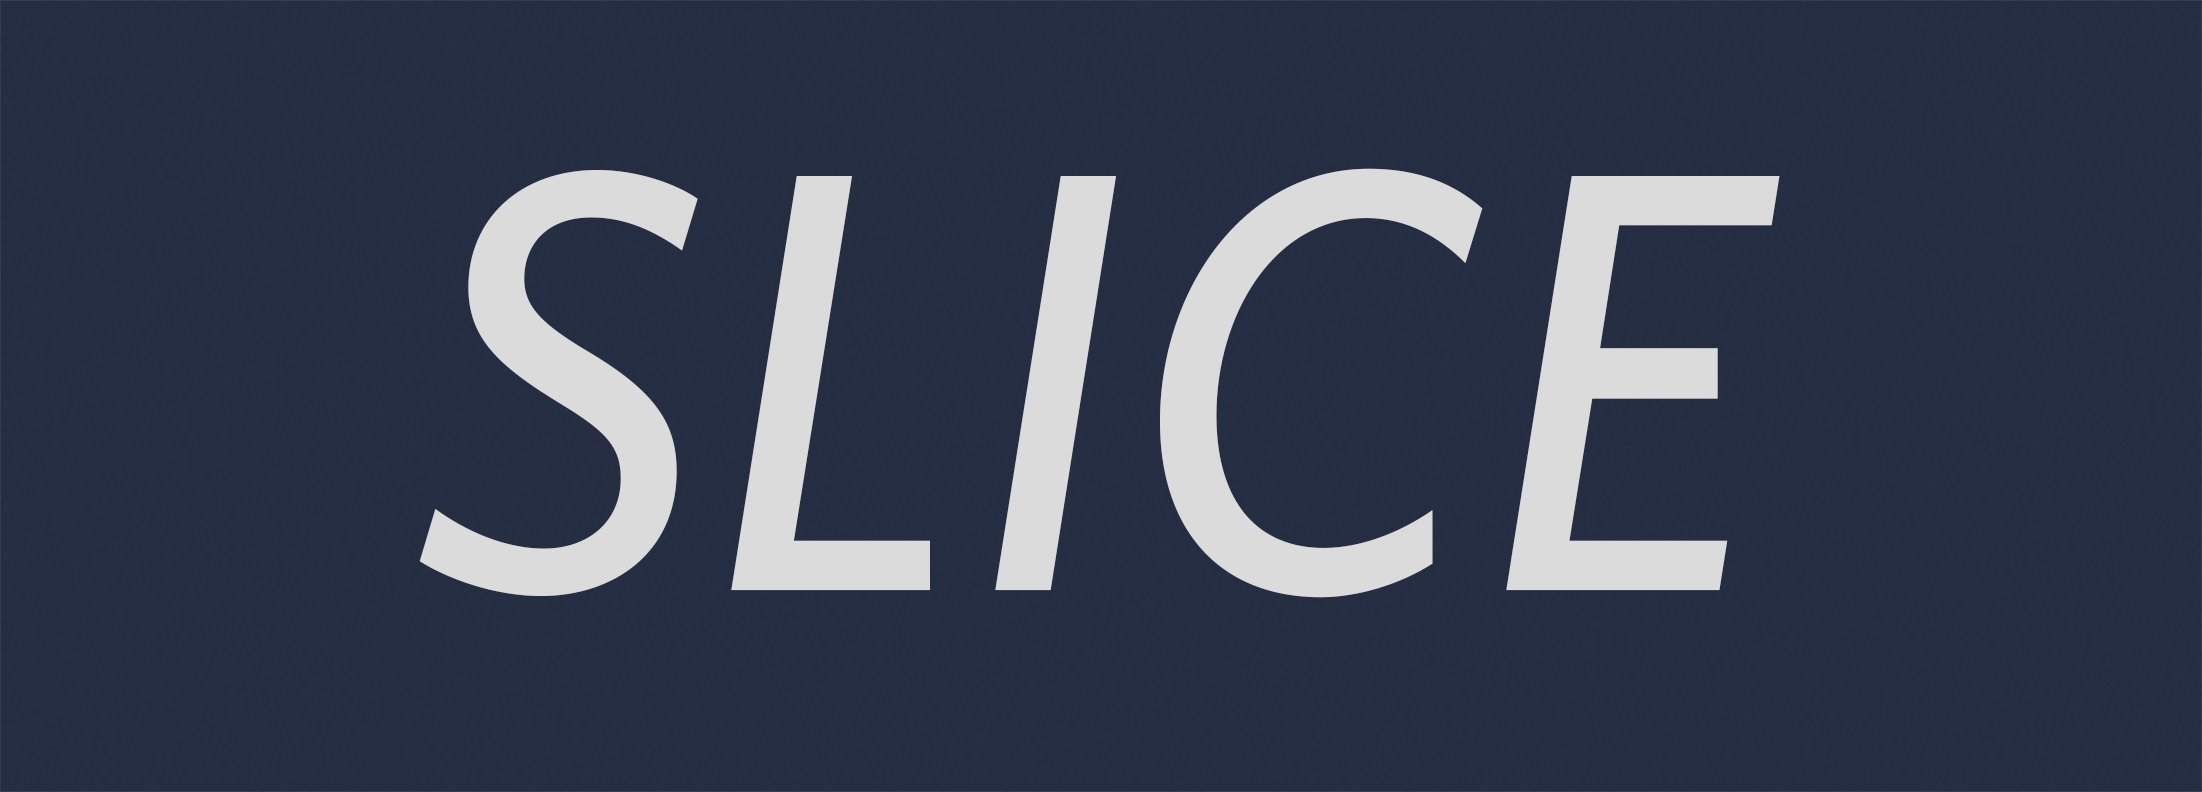
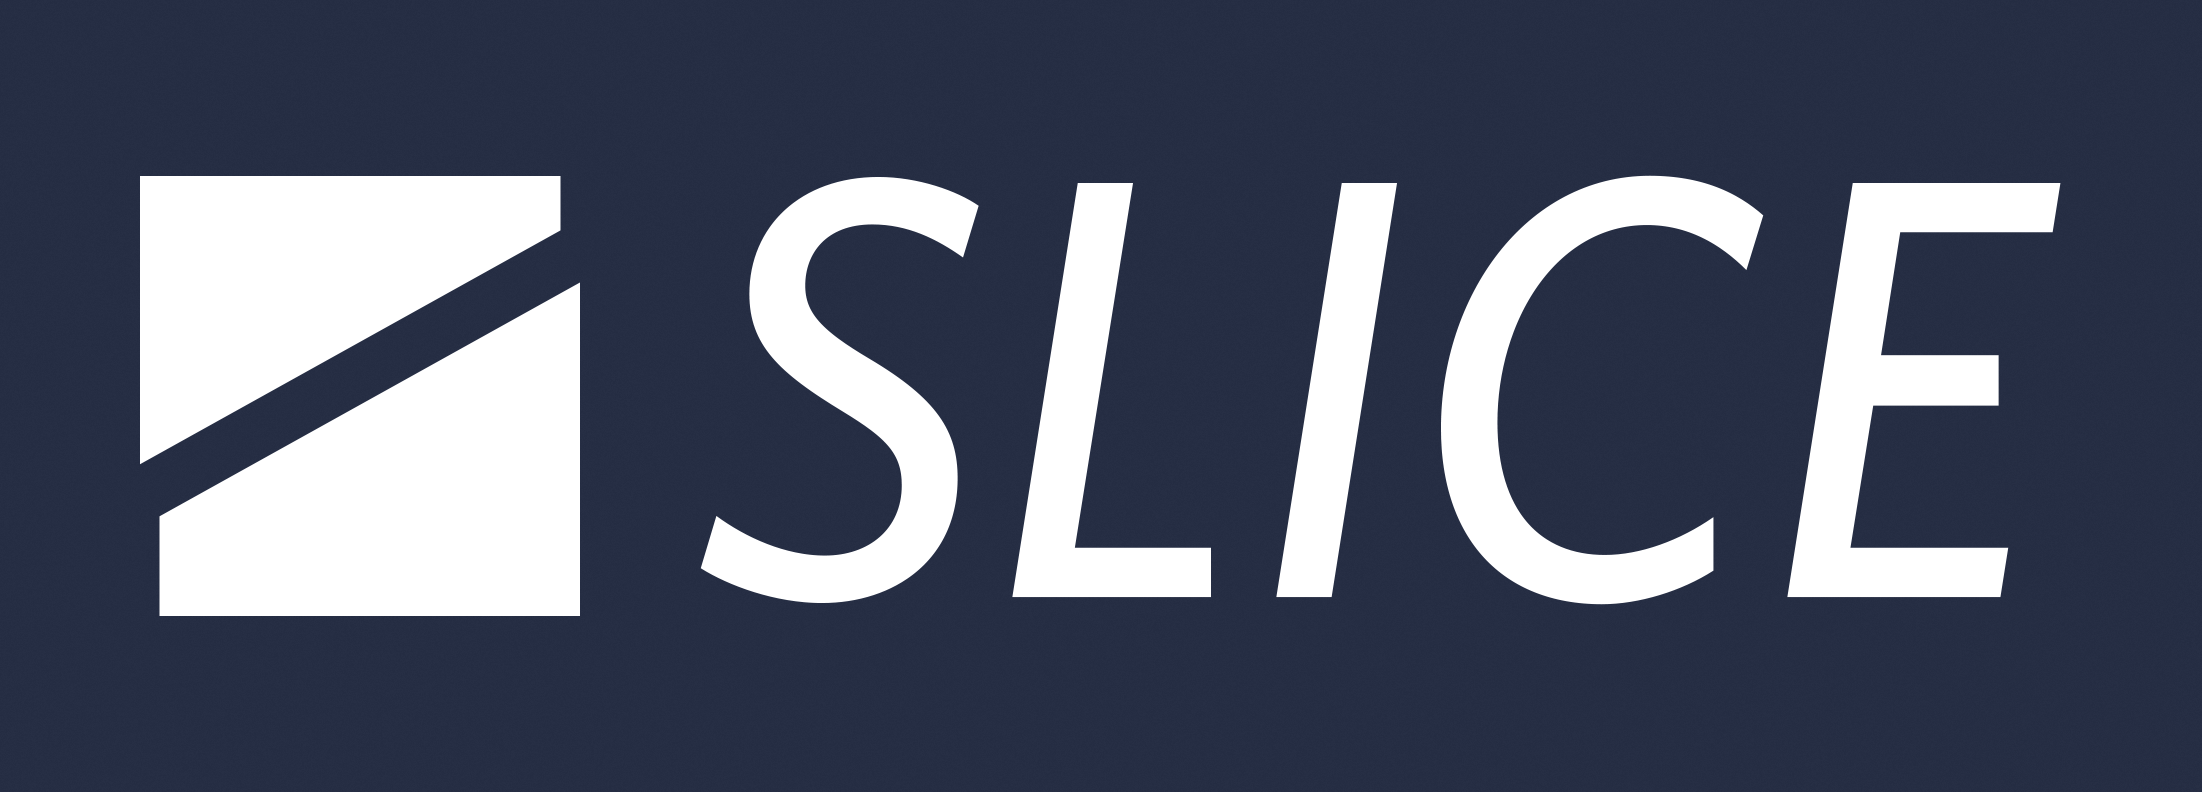
visual update

Changed region(s): [[0.0618, 0.2121, 0.9573, 0.7879]]

diff --git a/src/App.tsx b/src/App.tsx
@@ -17,6 +17,8 @@ import {
     setSelectedProfile
 } from "./types";
 
+import logo from './assets/whiteslice.png'
+
 function App() {
     let [src, setSrc] = useState<string | ArrayBuffer>();
     let [selected, setSelected] = useState(0);
@@ -131,13 +133,19 @@ function App() {
 
     return (
         <div id={'main'}>
-            <div className={'header-container'}>
+            <div id={'header'}>
+                <img src={logo} alt={'logo'}/>
                 <UploadButton
                     onSelect={onSelectFile}
                 />
+                <div className={'header-element'}>
+                    <button onClick={()=>document.location.href='https://paypal.me/intrntsrfr'}>Donate!</button>
+                </div>
+                <div className={'header-element'}>
+                    <button onClick={()=>document.location.href='https://github.com/intrntsrfr/slice'}>Github</button>
+                </div>
             </div>
             {
-                //imgRef.current &&
                 <div className={'crop-container'}>
                     <ReactCrop
                         src={(src as string)}

diff --git a/src/index.css b/src/index.css
@@ -55,7 +55,8 @@ code {
     float: left;
 }
 
-.header-container {
+#header {
+    height: 35px;
     margin-bottom: 25px;
     margin-left: 10%;
     width: 80%;
@@ -63,6 +64,26 @@ code {
     padding: 15px;
     border-radius: 2px;
     box-shadow: 0 0 15px 0 #222;
+}
+#header img{
+    float:left;
+    height: 100%;
+}
+
+.header-element{
+    float:right;
+}
+
+.header-element button{
+
+    margin-left: 5px;
+    color: white;
+    height: 35px;
+    cursor: pointer;
+    text-decoration: none;
+    border: none;
+    background-color: #495975;
+    border-radius: 2px;
 }
 
 .profile-manager {

diff --git a/src/UploadButton.tsx b/src/UploadButton.tsx
@@ -12,7 +12,7 @@ interface Props {
 function UploadButton(props: Props) {
     const inpRef = useRef<HTMLInputElement>(null)
     return (
-        <div>
+        <div style={{display:'inline-block'}}>
             <Button
                 onClick={() => {
                     if (inpRef && inpRef.current) {
